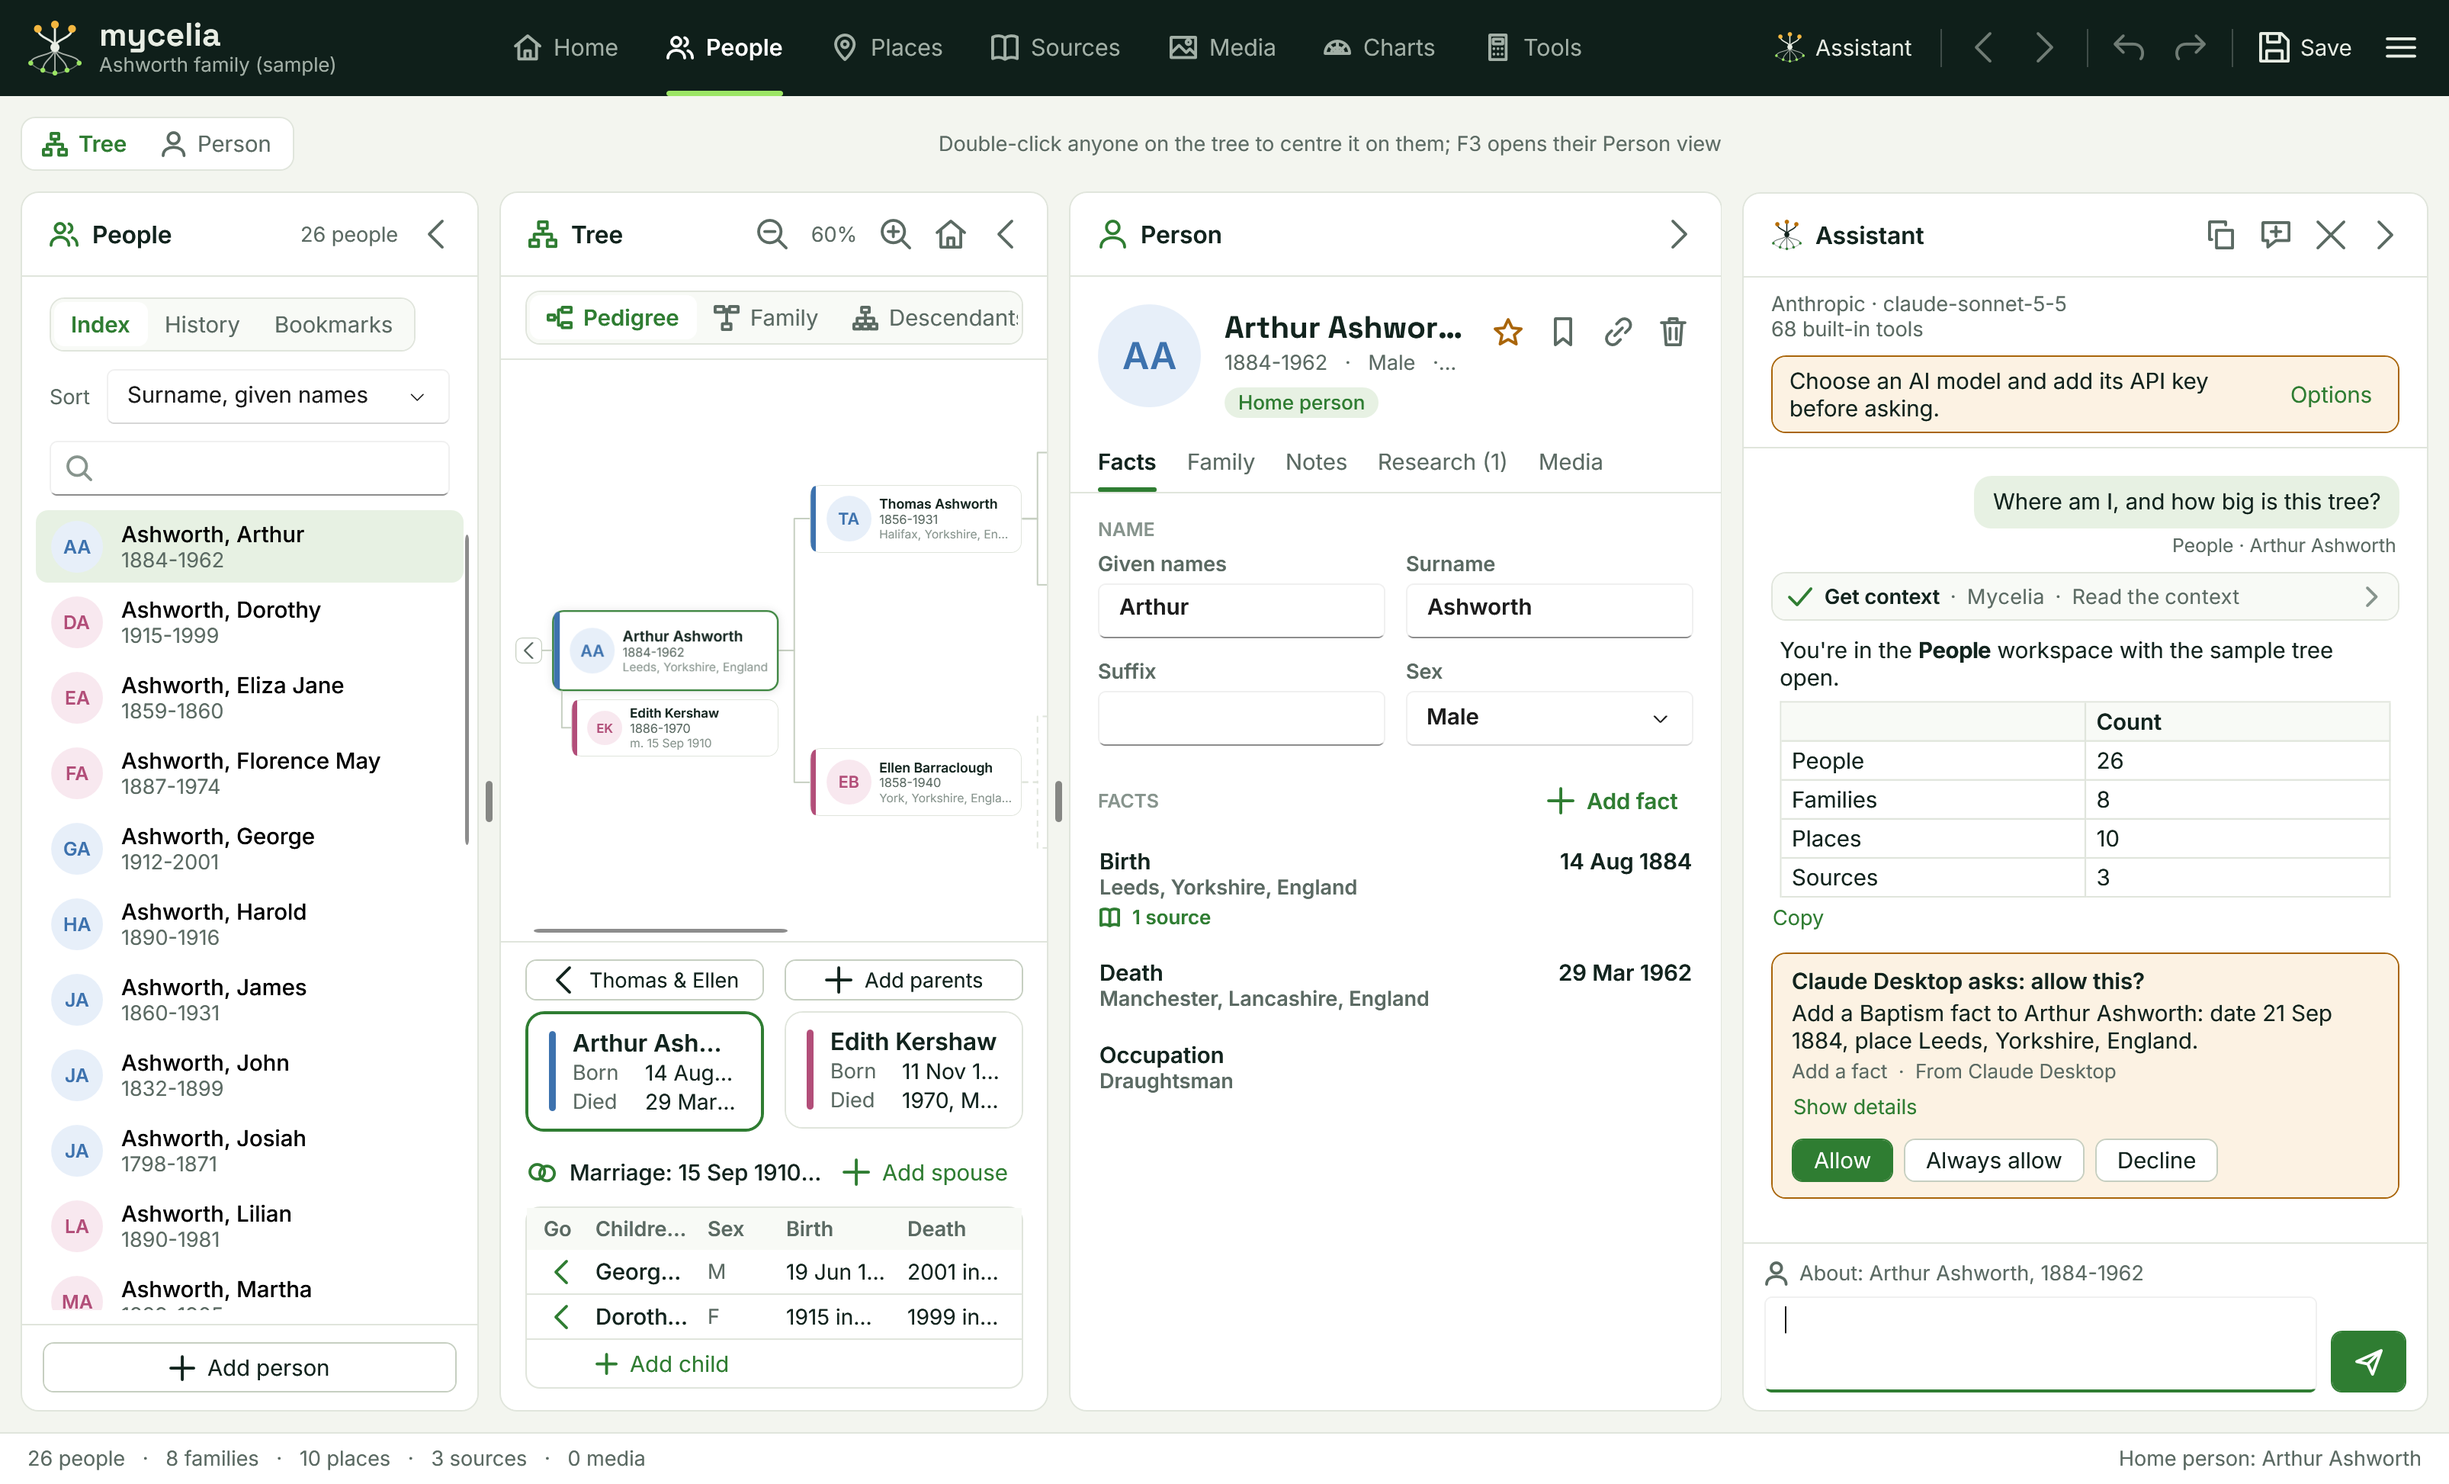
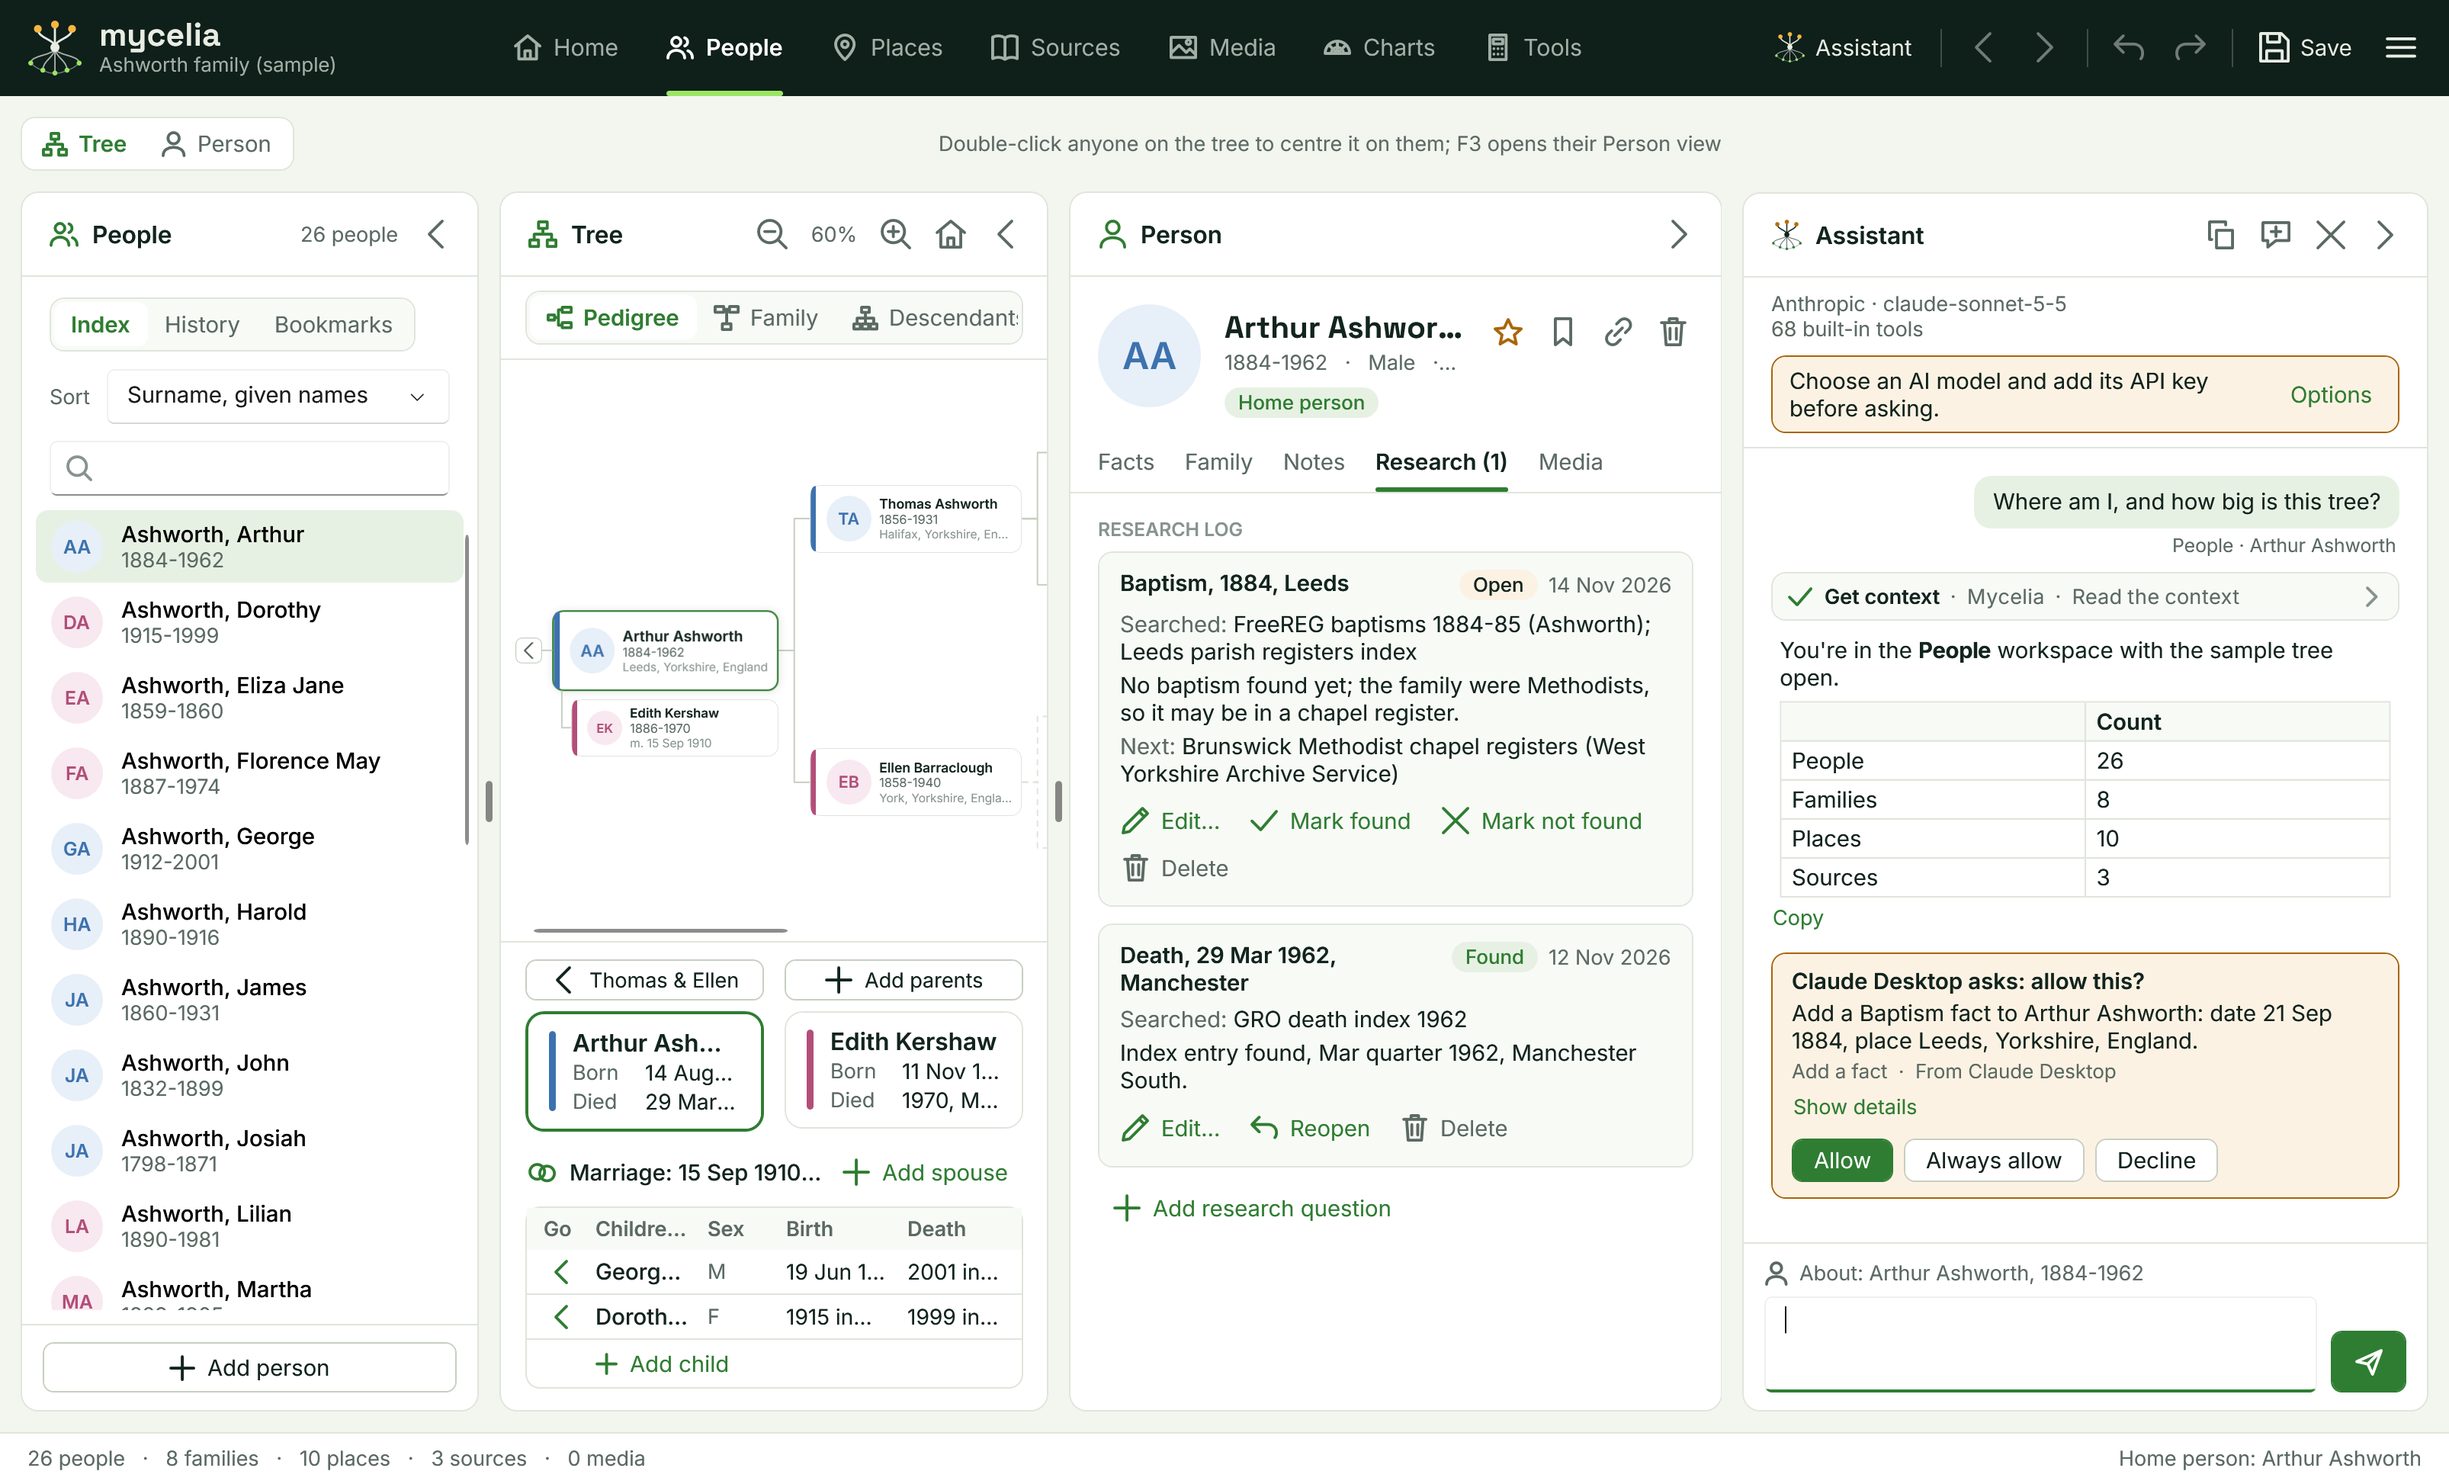
README: New in 0.4.0, research log picture

Changed region(s): [[0.4359, 0.3083, 0.6849, 0.7708], [0.5293, 0.74, 0.6227, 0.7708], [0.467, 0.8016, 0.5604, 0.8325]]

diff --git a/README.md b/README.md
@@ -8,11 +8,25 @@ catalogues.
 A mycelium is the underground network that links trees and feeds them.  In Mycelia, archives and
 MCP servers do that for a family tree.  MCP also stands for "Mycelia Connects Pedigrees".
 
-![The People workspace with the Assistant](Docs/Images/people.png)
+![The People workspace with a research log and the Assistant](Docs/Images/people.png)
 
 > **Status:** version 0.4.0, in development.  Ready-built versions for testing are on the
 > [Releases page](https://github.com/paulfilkin/mycelia/releases) (see [Download](#download)).
 > The tree file format may still change.
+
+## New in 0.4.0
+
+- **A research log** on each person and couple: one entry per question, with where has been
+  searched, what came of it and what to try next.  The Tools workspace's research to-do lists
+  every open question.
+- **Research that builds on what the family's records already hold.**  The Assistant reads the
+  notes and research logs of the person and their nearest relatives first, so it doesn't search
+  again what has been searched.
+- **An Assistant that can't claim what it didn't do.**  Searches that never ran aren't logged, the
+  pane lists the pages each request read, and every change shows what it will change before you
+  approve it.
+
+The [changelog](Docs/CHANGELOG_Mycelia.md) has the rest.
 
 ## Familiar, but different
 
